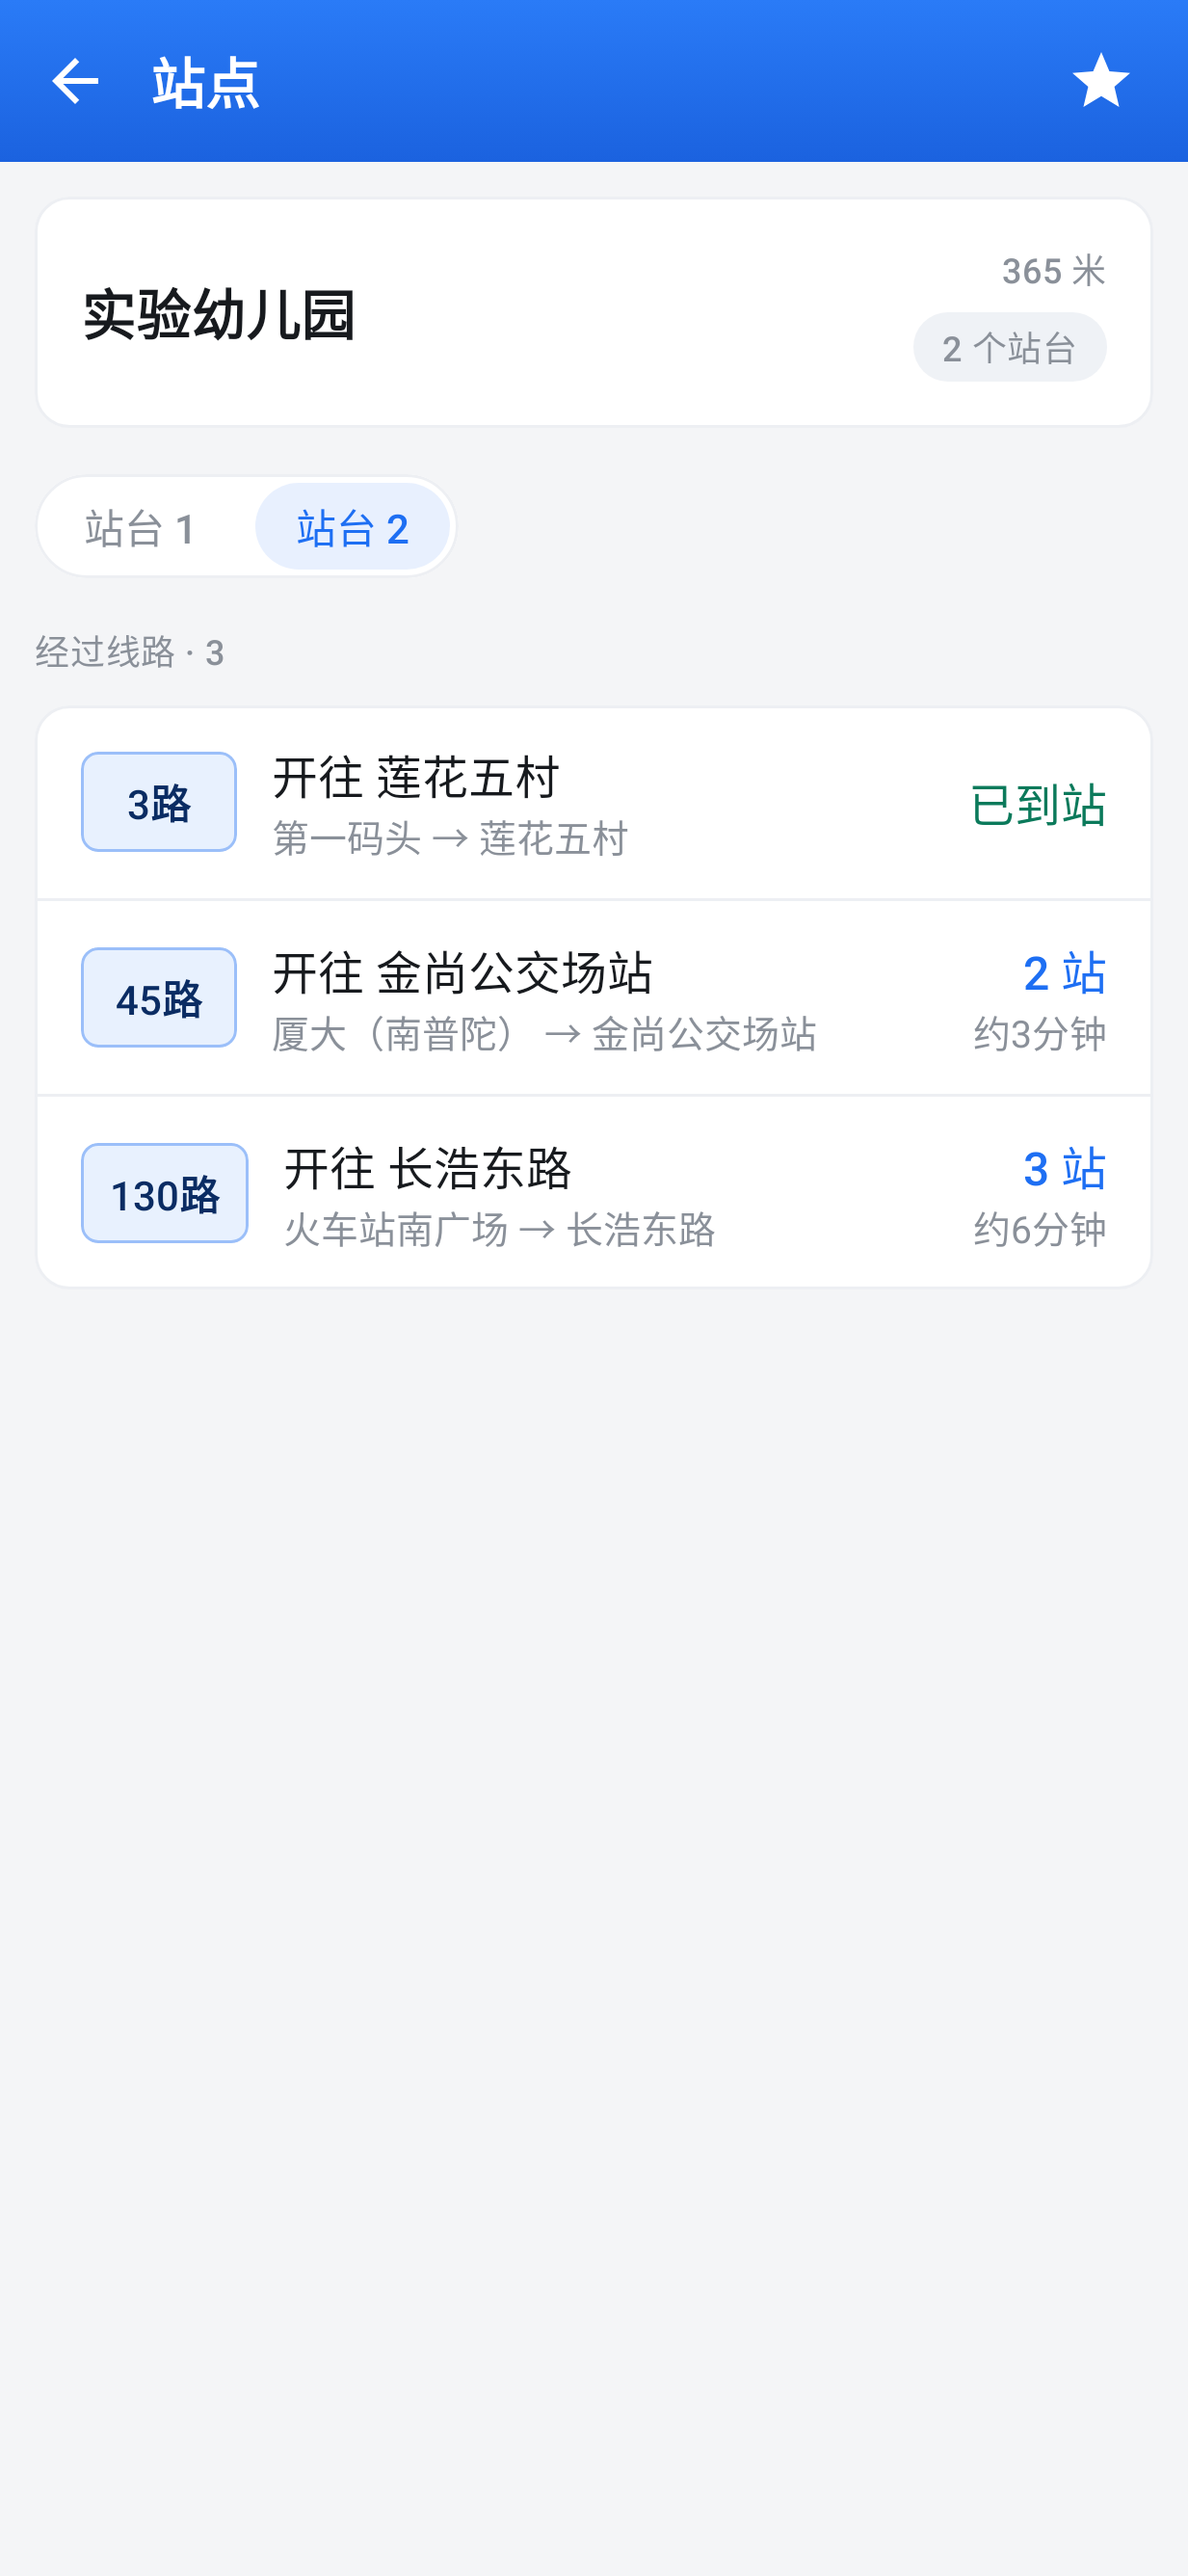
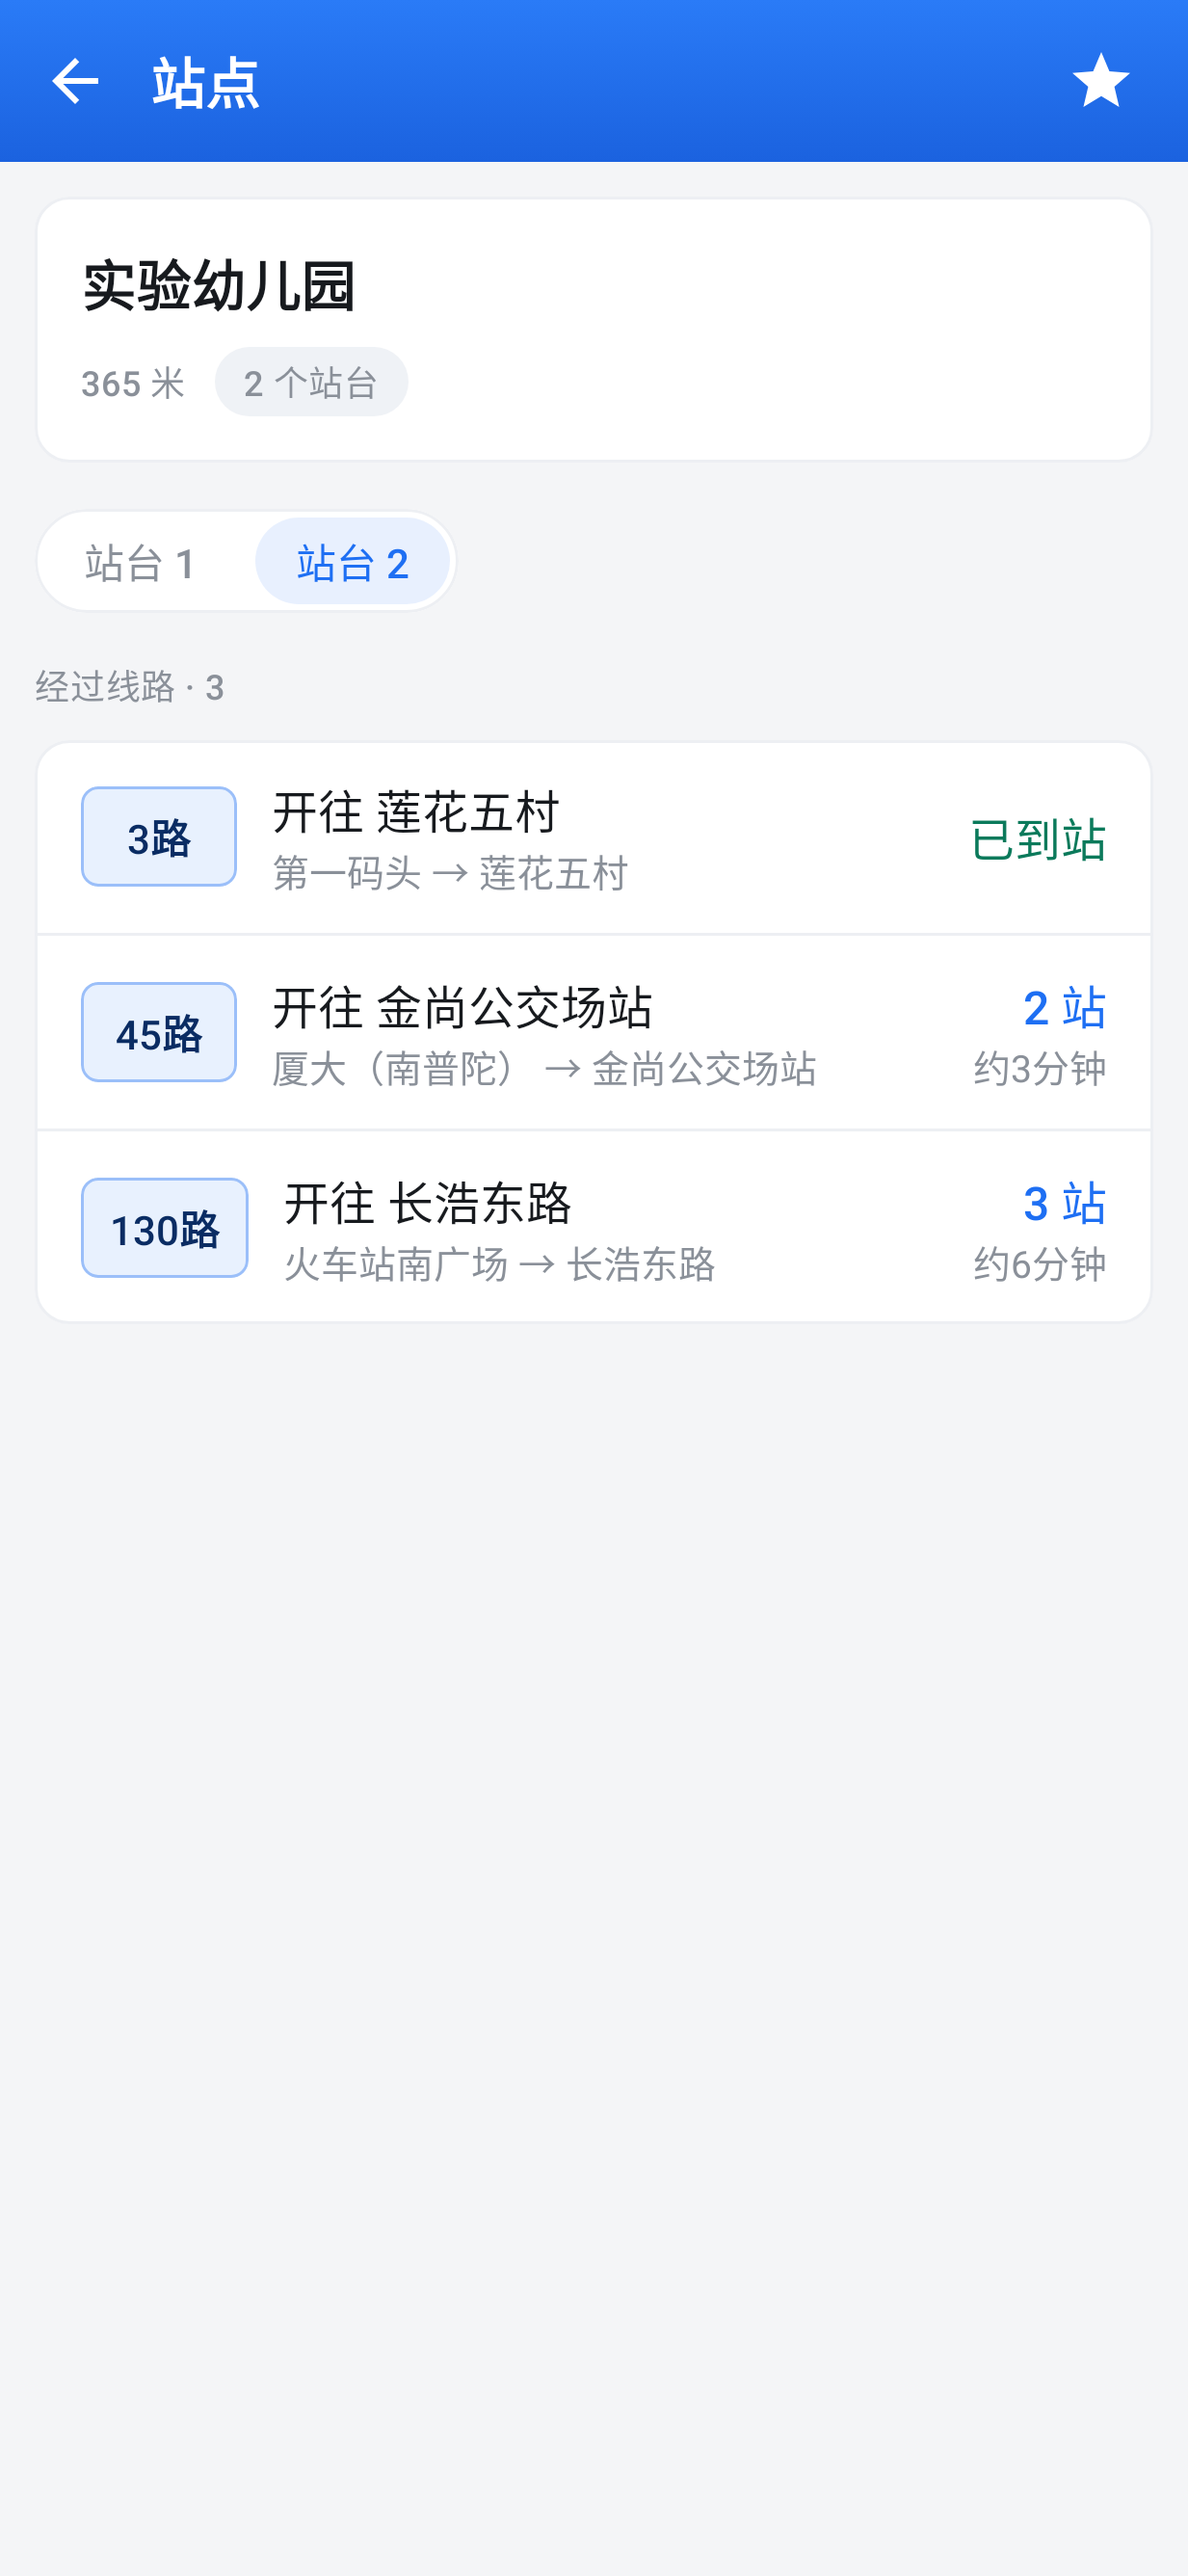
收紧站点头卡与清空入口，关于文案压到一句

diff --git a/app/src/main/java/com/yll682/houche/ui/screens/station/StationContent.kt b/app/src/main/java/com/yll682/houche/ui/screens/station/StationContent.kt
@@ -45,13 +45,18 @@ import com.yll682.houche.ui.theme.Capsule
                 verticalArrangement = Arrangement.spacedBy(10.dp)
             ) {
                 item {
+                    // 站名独占一行，距离与站台数并排放在下面，右侧不再竖着堆两块信息。
                     CardSurface {
-                        Row(Modifier.fillMaxWidth().padding(16.dp), verticalAlignment = Alignment.CenterVertically) {
-                            Text(stop.name, Modifier.weight(1f), style = MaterialTheme.typography.titleLarge, maxLines = 2, overflow = TextOverflow.Ellipsis)
-                            Spacer(Modifier.width(8.dp))
-                            Column(horizontalAlignment = Alignment.End, verticalArrangement = Arrangement.spacedBy(6.dp)) {
+                        Column(Modifier.fillMaxWidth().padding(16.dp)) {
+                            Text(stop.name, style = MaterialTheme.typography.titleLarge, maxLines = 2, overflow = TextOverflow.Ellipsis)
+                            Spacer(Modifier.height(8.dp))
+                            Row(verticalAlignment = Alignment.CenterVertically) {
                                 DistanceChip(stop.distance)
-                                MetaPill(stringResource(R.string.platform_count, maxOf(1, stop.platformNumbers.distinct().size, stop.platforms.size)))
+                                val platforms = maxOf(1, stop.platformNumbers.distinct().size, stop.platforms.size)
+                                if (platforms > 1) {
+                                    Spacer(Modifier.width(10.dp))
+                                    MetaPill(stringResource(R.string.platform_count, platforms))
+                                }
                             }
                         }
                     }

diff --git a/app/src/main/java/com/yll682/houche/ui/screens/search/SearchContent.kt b/app/src/main/java/com/yll682/houche/ui/screens/search/SearchContent.kt
@@ -63,7 +63,12 @@ import com.yll682.houche.ui.theme.Capsule
                                     }
                                 }
                             }
-                            OutlinedButton(clear, Modifier.touch(stringResource(R.string.clear)), shape = Capsule, border = BorderStroke(1.dp, MaterialTheme.colorScheme.outlineVariant)) { Text(stringResource(R.string.clear), style = MaterialTheme.typography.labelLarge) }
+                            // 「清空」与关键词 chip 同一形态，只是文字更轻，避免两种药丸挤在一行。
+                            Surface(onClick = clear, modifier = Modifier.touch(stringResource(R.string.clear)), shape = Capsule,
+                                color = MaterialTheme.colorScheme.surface, border = BorderStroke(1.dp, MaterialTheme.colorScheme.outlineVariant)) {
+                                Text(stringResource(R.string.clear), Modifier.padding(horizontal = 14.dp, vertical = 12.dp),
+                                    style = MaterialTheme.typography.bodySmall, color = MaterialTheme.colorScheme.onSurfaceVariant)
+                            }
                         }
                     }
                 } else item { EmptyState(stringResource(R.string.search_hint)) }
